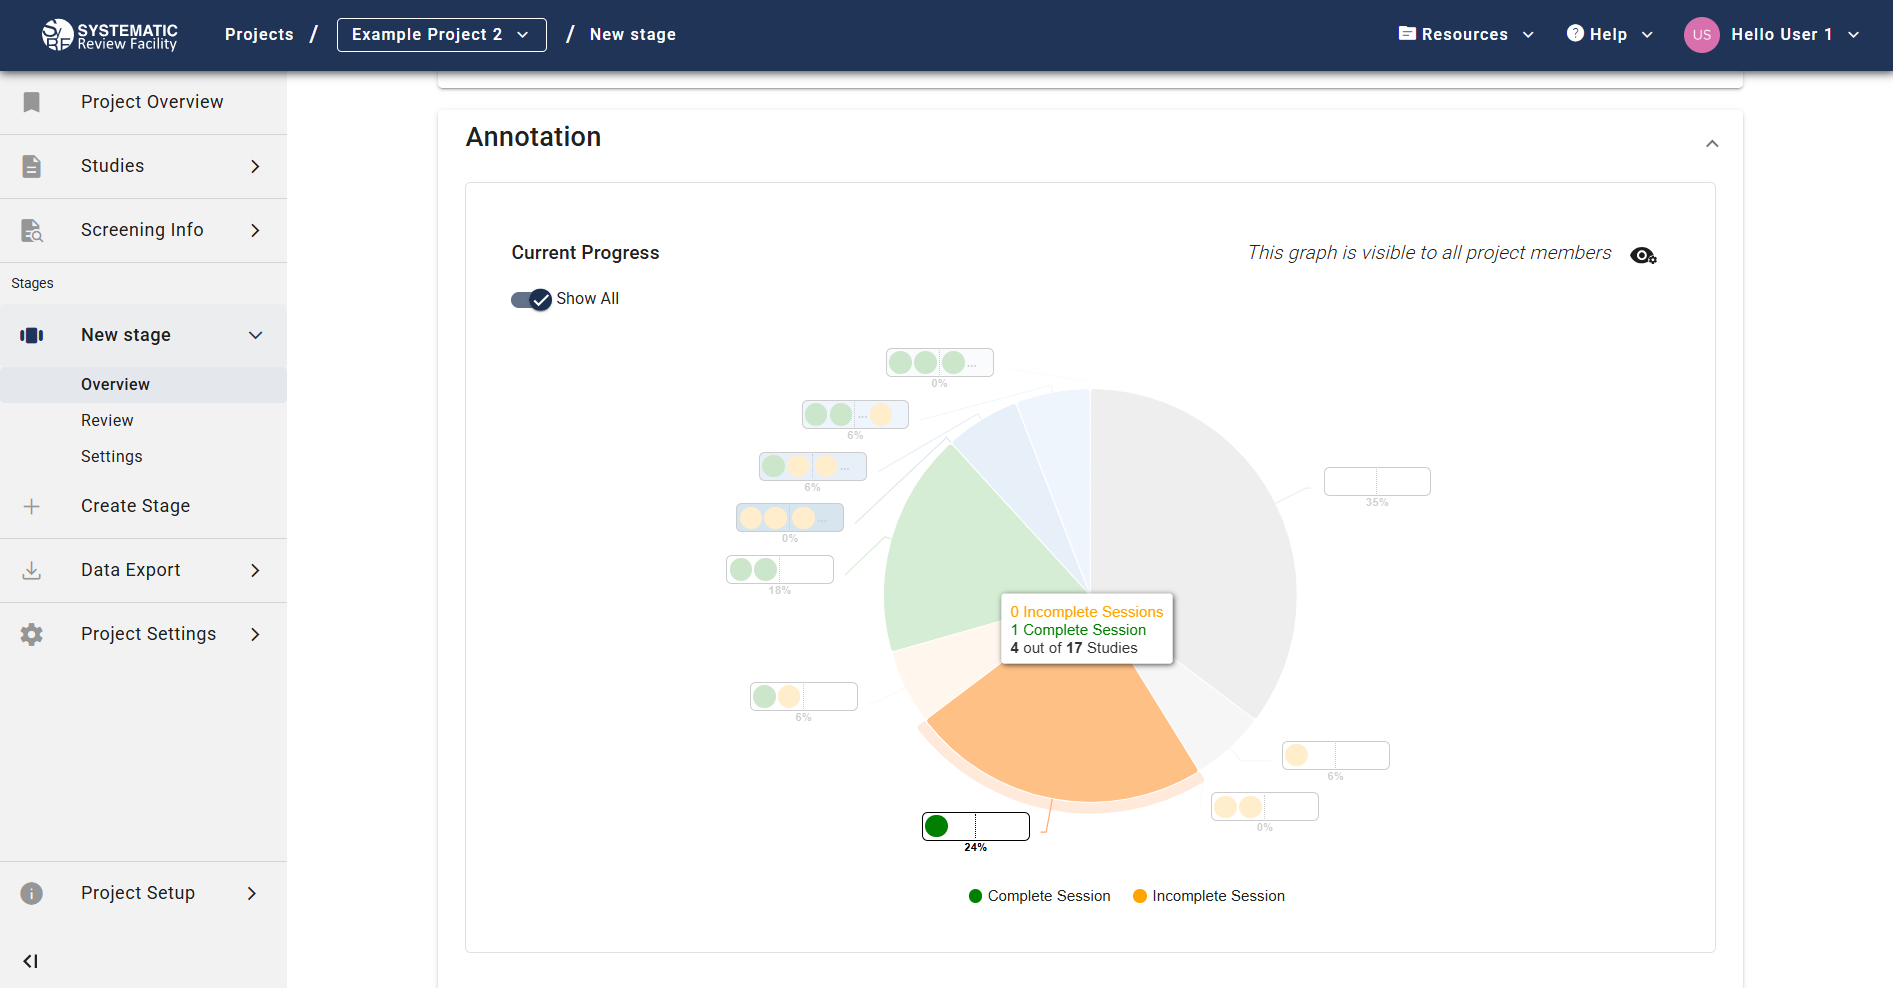
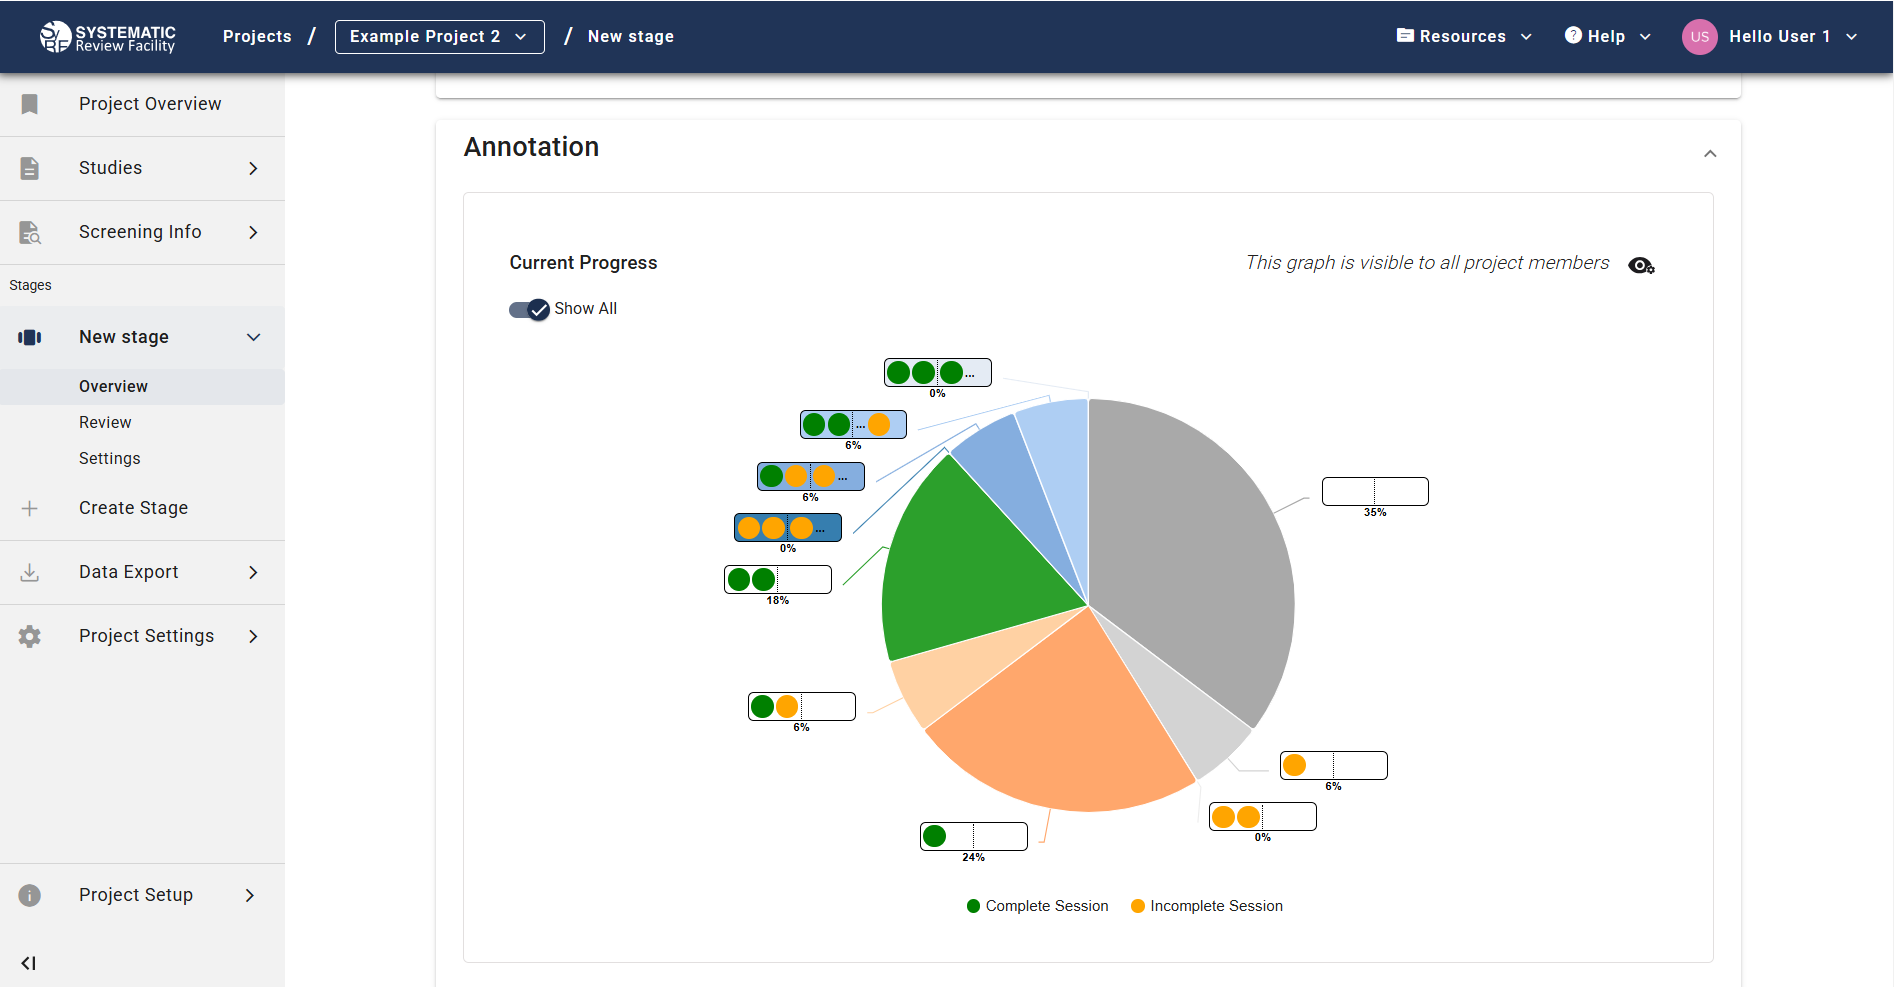
Updating from comments in meeeting

diff --git a/project-stats.md b/project-stats.md
@@ -16,7 +16,7 @@ You can monitor the progress of the project, including the level of completion o
 
 Two versions of the chart detailing the dual screening progress are available to view: 
 
-- When “Show screening decisions” is turned off, the chart displays the proportion of studies not screened, screened by 1 reviewer, screened by 2 reviewers who agreed, screened by 2 reviewers who disagreed (requiring reconciliation), screened by 3 reviewers (reconciled), and overscreened studies.  
+- When “Show screening decisions” is turned off, the chart displays the proportion of studies not screened, screened by 1 reviewer, screened by 2 reviewers who agreed, screened by 2 reviewers who disagreed (requiring reconciliation), screened by 3 reviewers (reconciled), and overscreened studies (screened by more than three users).  
 
 
 ![alttext](figs/Fig_Project-Stats_Screening_CSI.png)
@@ -30,11 +30,14 @@ Two versions of the chart detailing the dual screening progress are available to
 
 You can hover over each pie chart slice in both views to get more detailed information on the exact number of studies in each section.
 
+![alttext](figs/Fig_Project-Stats_Screening3_CSI.png)     ![alttext](figs/Fig_Project-Stats_Screening4_CSI.png)
+
+#### Screening Leaderboard
 
 Further down below, you can also see the "Screening Leaderboard" table, which provides more detailed information on each user's screening activity.
 
 
-![alttext](figs/Fig_Project-Stats_Screening3_CSI.png)
+![alttext](figs/Fig_Project-Stats_Screening-table_CSI.png)
 
 
 ### Single screening 
@@ -115,15 +118,21 @@ Two versions of the chart detailing the annotation progress are available to vie
 ![alttext](figs/Fig_Project-Stats_Annotation_CSI.png)
 
 
-- When “Show all” is turned on, the more comprehensive version of the chart displays the proportion of studies with 0, 1, 2 or ≥ 3 complete (green circle) or incomplete (yellow circle) sessions. In this chart, a complete session is equivalent to a fully completed review, whereas an incomplete session refers to a review in progress (a review started and saved but not completed).  
+- When “Show all” is turned on, the more comprehensive version of the chart displays the proportion of studies with 0, 1, 2 or ≥ 3 complete (green circle) or incomplete (yellow circle) sessions. In this chart, a complete session is equivalent to a fully completed review, whereas an incomplete session refers to a review in progress (a review started and saved but not completed).
 
  
- ![alttext](figs/Fig_Project-Stats_Annotation2_CSI.png)
+![alttext](figs/Fig_Project-Stats_Annotation2_CSI.png)
+
+
+You can hover over each pie chart slice in both views to get more detailed information on the exact number of studies in each section. When the "Show all" is turned on, you can also see the number of incomplete and/or incomplete sessions for each section.
+
+
+![alttext](figs/Fig_Project-Stats_Annotation3_CSI.png)    ![alttext](figs/Fig_Project-Stats_Annotation4_CSI.png)
 
 
 Further down below, you can also see the "Annotation Leaderboard" table, which provides more detailed information on each user's annotation activity, in the same way as in the Screening section above.
 
-You can hover over each pie chart slice in both views to get more detailed information on the exact number of studies in each section. When the "Show all" is turned on, you can also see the number of incomplete and/or incomplete sessions for each section.
+
 
 Studies are considered to have no completed reviews if they have 0 complete sessions or up to 2 incomplete sessions. Studies are considered to have 1 completed review if they have 1 complete session ± 1 incomplete session. Studies are considered to have 2 completed reviews if they have 2 complete sessions. Finally, studies are considered overannotated if they have ≥ 3 complete/incomplete sessions. This is summarised in the table below:  
 
@@ -145,3 +154,7 @@ Studies are considered to have no completed reviews if they have 0 complete sess
 OR
 
 ![alt text](Fig_table2_stats-userguide_CSI.png)
+
+
+This feature is optimised for stages where the setting(LINK) "Required Annotators per Study" is set to 2 (i.e., studies with 3 or more annotators count as overannotated)
+ADD LINK TO THE SETTING of the userguide
